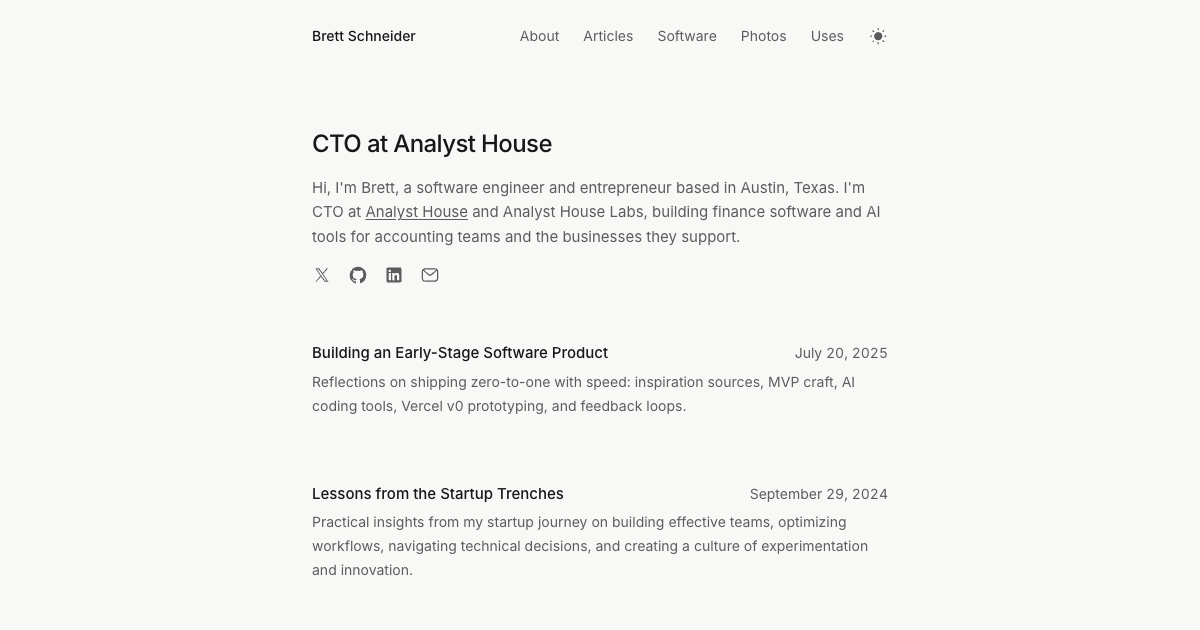
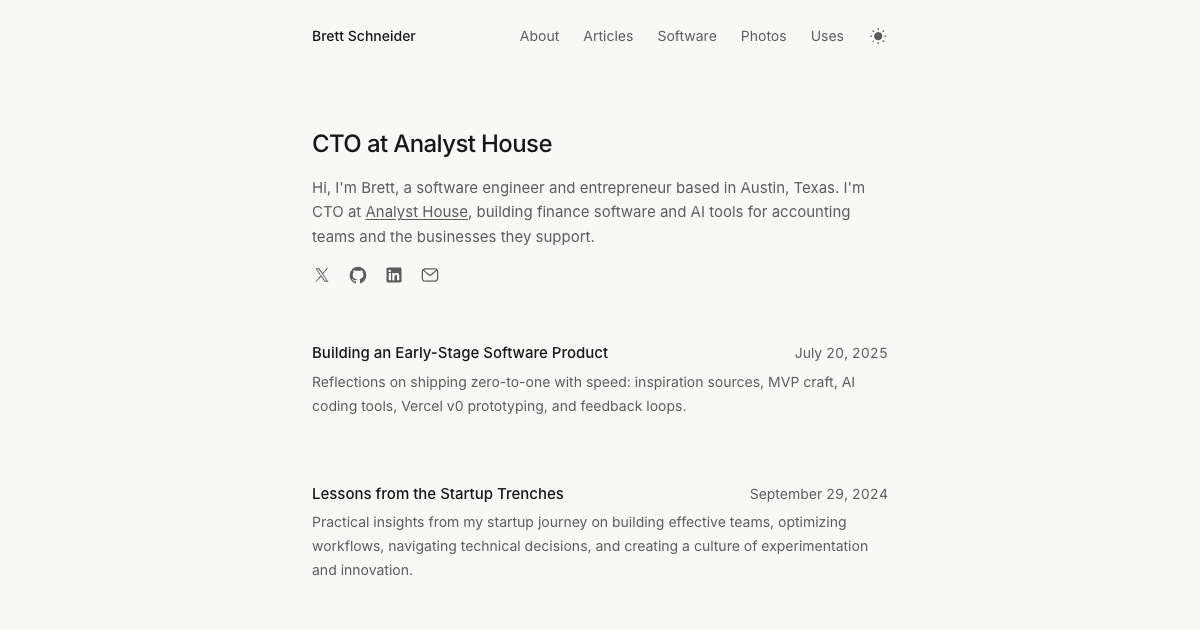
Use Analyst House consistently across the portfolio
Simplify the role name, metadata, and social previews. Verified the production build, changed-file lint, desktop and mobile rendering, and refreshed PR screenshots.

Changed region(s): [[0.2775, 0.3317, 0.74, 0.3921]]

diff --git a/app/about/page.tsx b/app/about/page.tsx
@@ -7,7 +7,7 @@ import Image from 'next/image'
 export const metadata: Metadata = {
   title: 'About',
   description:
-    "I'm Brett, CTO of Analyst House and Analyst House Labs, based in Austin. I build finance software and AI tools for accounting teams and businesses.",
+    "I'm Brett, CTO of Analyst House, based in Austin. I build finance software and AI tools for accounting teams and businesses.",
 }
 
 export default function About() {
@@ -33,10 +33,9 @@ export default function About() {
 
             <div className="text-muted-foreground mt-6 space-y-6 text-base">
               <p>
-                I&apos;m CTO of Analyst House and Analyst House Labs, building
-                software for accounting teams and the businesses they support.
-                Analyst House provides accounting and CFO services, and Labs
-                builds the technology behind them.
+                I&apos;m CTO of Analyst House, building software for accounting
+                teams and the businesses they support. Analyst House provides
+                accounting and CFO services.
               </p>
               <p>
                 My work spans practice management, client portals, and AI agents

diff --git a/app/page.tsx b/app/page.tsx
@@ -24,9 +24,9 @@ export default async function Home() {
               href="https://www.analysthouse.io/?utm_source=bretts.dev"
             >
               Analyst House
-            </Link>{' '}
-            and Analyst House Labs, building finance software and AI tools for
-            accounting teams and the businesses they support.
+            </Link>
+            , building finance software and AI tools for accounting teams and
+            the businesses they support.
           </p>
           <div className="mt-4">
             <SocialIconsRow />

diff --git a/app/layout.tsx b/app/layout.tsx
@@ -15,7 +15,7 @@ export const metadata: Metadata = {
     default: 'Brett Schneider - CTO at Analyst House',
   },
   description:
-    "Hi, I'm Brett, CTO of Analyst House and Analyst House Labs in Austin. I build finance software and AI tools for accounting teams and the businesses they support.",
+    "Hi, I'm Brett, CTO of Analyst House in Austin. I build finance software and AI tools for accounting teams and the businesses they support.",
   alternates: {
     types: {
       'application/rss+xml': `${process.env.NEXT_PUBLIC_SITE_URL}/feed.xml`,

diff --git a/components/custom/resume.tsx b/components/custom/resume.tsx
@@ -4,7 +4,7 @@ export default function Resume() {
   const resume = [
     {
       company: 'Analyst House',
-      title: 'CTO, Analyst House & Analyst House Labs',
+      title: 'CTO',
       start: '2026',
       end: 'Present',
     },
